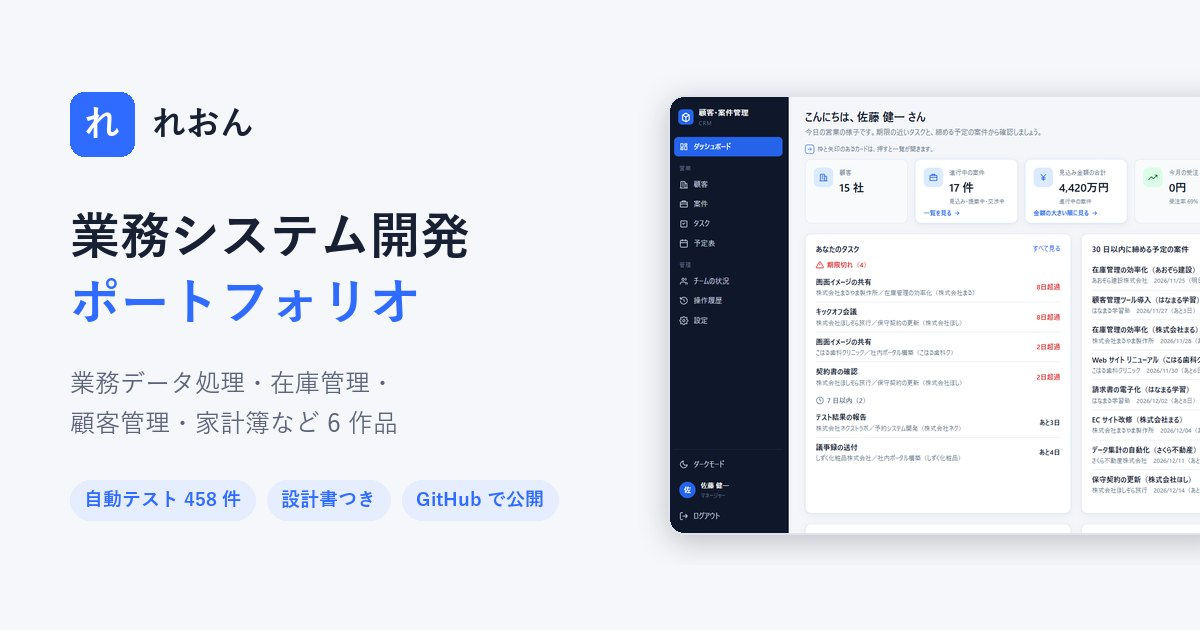
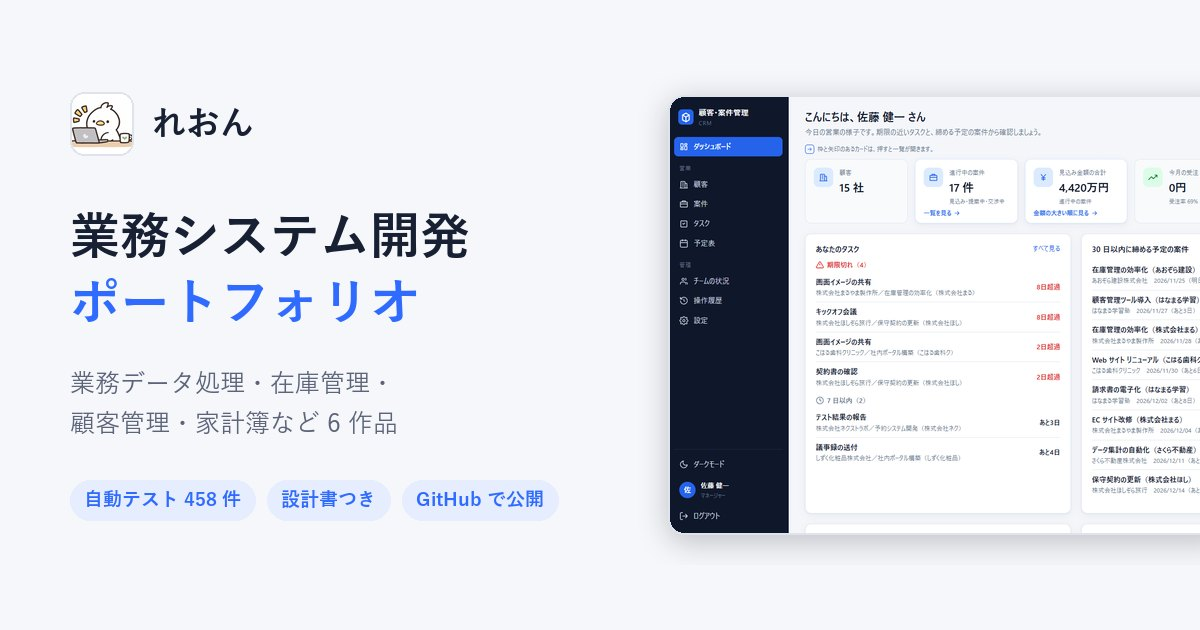
サイトのアイコンをひよこの絵に変更

Changed region(s): [[0.0308, 0.1206, 0.1233, 0.2714]]

diff --git a/public/index.html b/public/index.html
@@ -19,7 +19,8 @@
   <meta property="og:image:alt" content="れおん 業務システム開発ポートフォリオ。顧客・案件管理システムのダッシュボード画面">
   <meta name="twitter:card" content="summary_large_image">
   <meta name="color-scheme" content="light dark">
-  <link rel="icon" href="images/favicon.svg" type="image/svg+xml">
+  <link rel="icon" href="images/favicon-48.png" type="image/png" sizes="48x48">
+  <link rel="apple-touch-icon" href="images/apple-touch-icon.png">
   <link rel="stylesheet" href="style.css">
   <script src="theme.js"></script>
 </head>
@@ -29,7 +30,7 @@
   <header class="site-header">
     <div class="wrap header-inner">
       <a class="brand" href="#top" aria-label="ページの先頭へ">
-        <span class="brand-mark" aria-hidden="true">れ</span>
+        <img class="brand-mark" src="images/brand.webp" width="34" height="34" alt="">
         <span>れおん<small>Portfolio</small></span>
       </a>
       <nav class="nav" aria-label="ページ内">

diff --git a/public/style.css b/public/style.css
@@ -60,7 +60,7 @@ h1, h2, h3, h4 { line-height: 1.4; margin: 0; }
 .brand { display: flex; align-items: center; gap: 10px; color: var(--text); text-decoration: none; font-weight: 700; }
 .brand small { display: block; font-size: 11px; font-weight: 500; color: var(--muted); line-height: 1; letter-spacing: .08em; }
 .brand > span:last-child { line-height: 1.2; }
-.brand-mark { display: grid; place-items: center; width: 34px; height: 34px; border-radius: 10px; background: var(--accent); color: #fff; font-size: 18px; }
+.brand-mark { display: block; width: 34px; height: 34px; border-radius: 10px; background: #fff; border: 1px solid var(--line); object-fit: cover; }
 .nav { display: flex; gap: 22px; margin-left: auto; }
 .nav a { color: var(--muted); text-decoration: none; font-size: 15px; font-weight: 500; }
 .nav a:hover { color: var(--text); }
